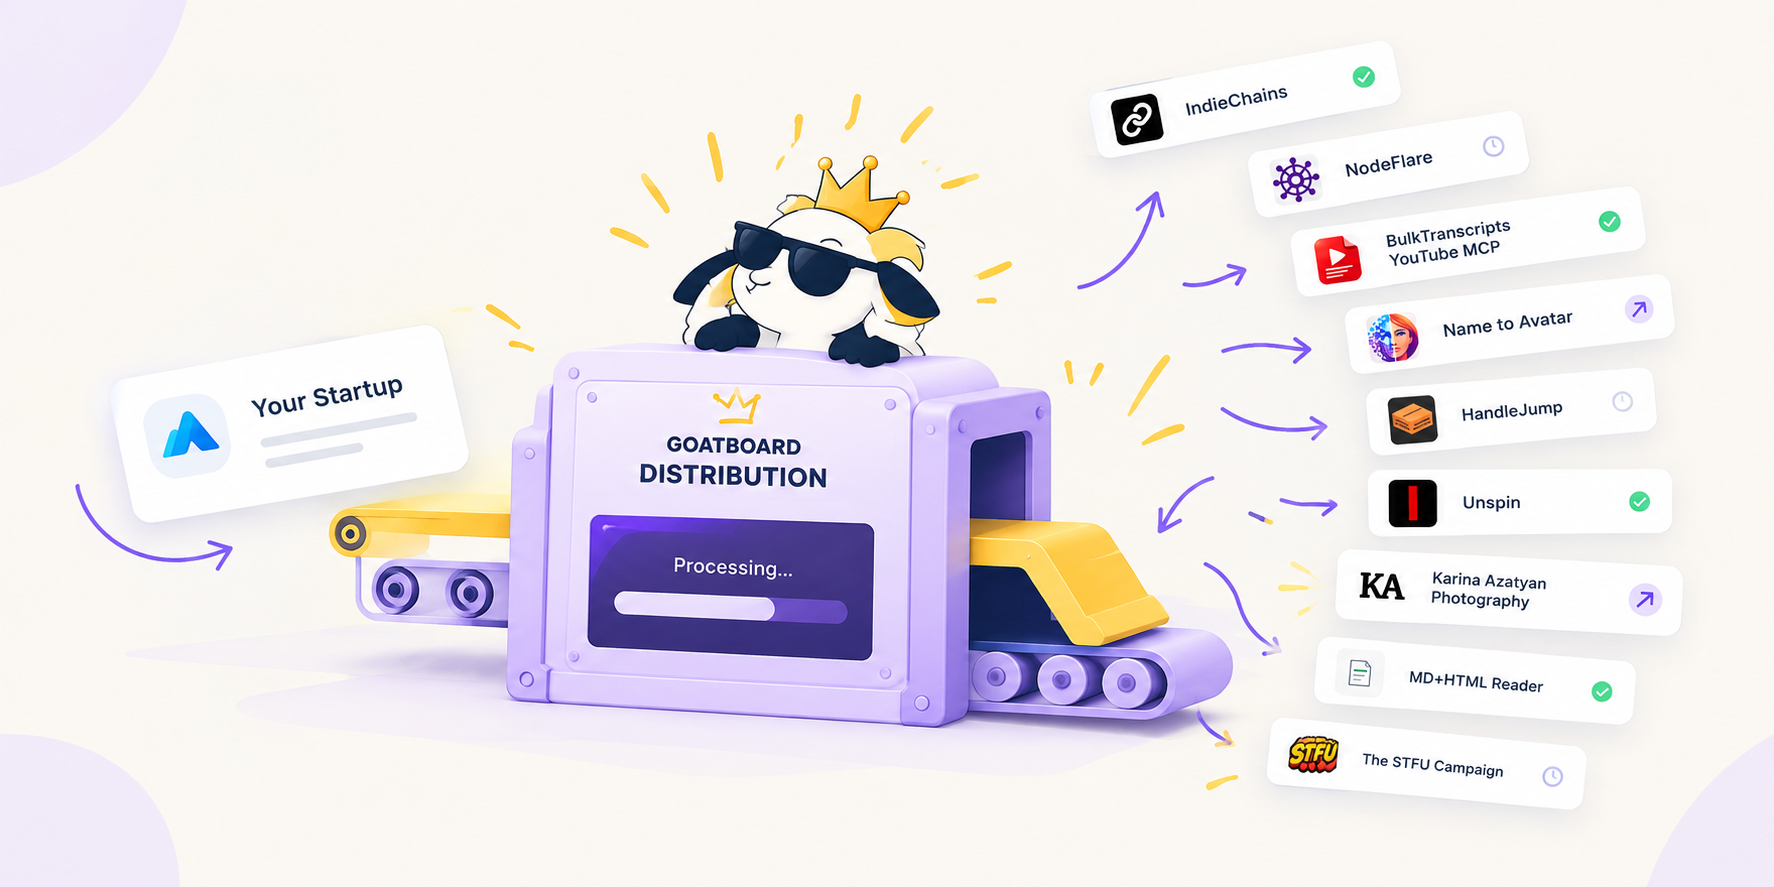
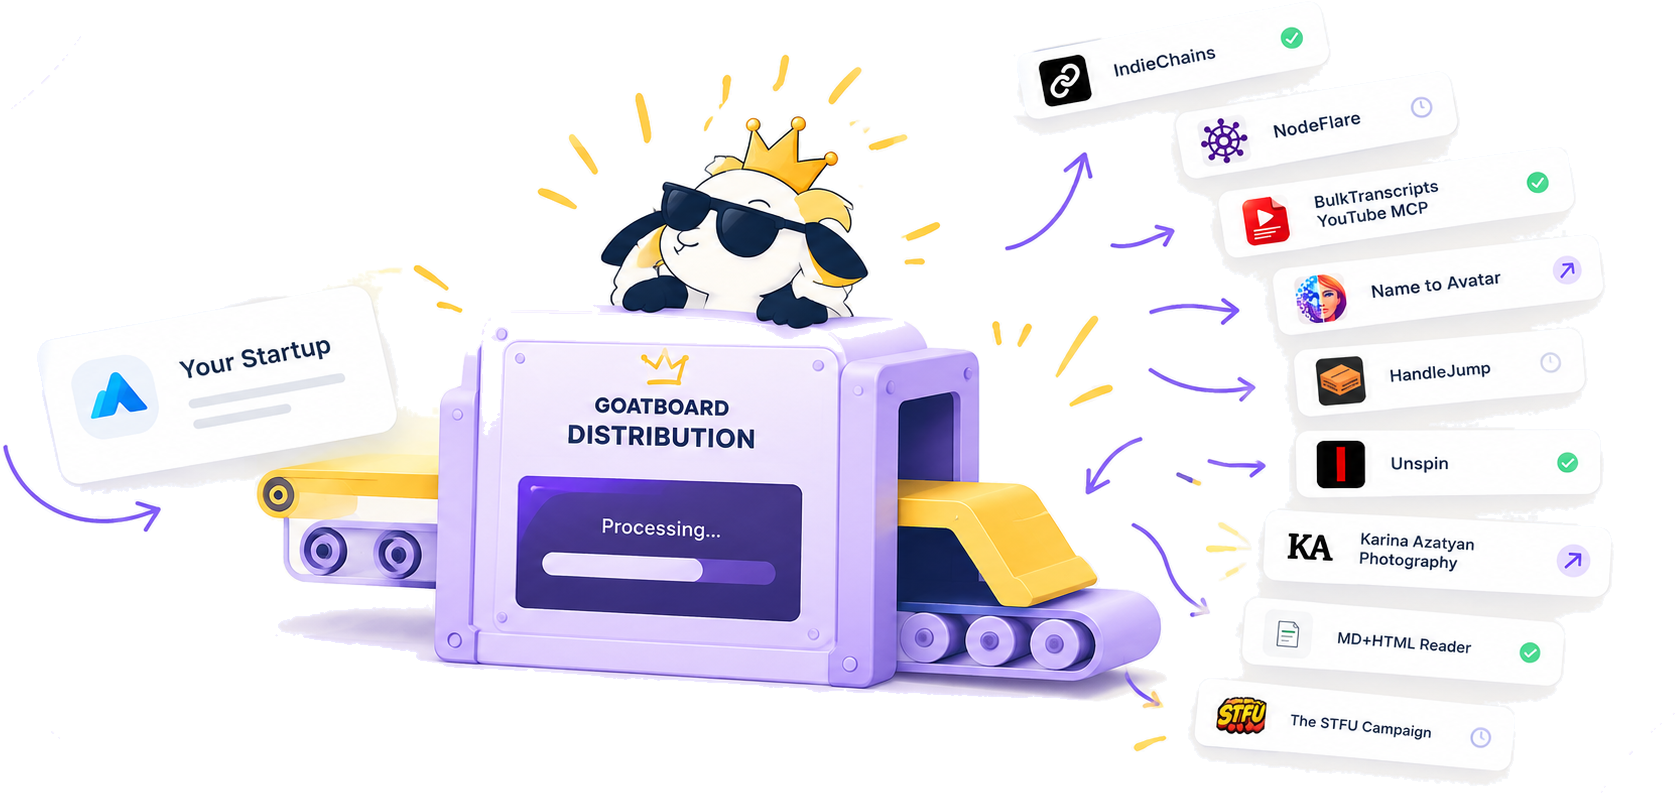
Cut the hero illustration out of its background and enlarge it
The illustration shipped as a cream rectangle, which read as a lighter panel
sitting on the page rather than as artwork on it.

Colour alone could not separate it: the machine body is (238,230,254) and the
background's purple blob is (242,234,250), four points apart. What separates
them is that the blobs touch the border and the machine does not, so the mask
is grown from the image edge with a local tolerance - close to the pixel it
was reached from, not to a fixed key colour. That follows the blobs' gradients
across the frame while the machine's edge, an 18-point step in a pixel or two,
stops it.

A local step alone still walked up each card's soft shadow from cream into its
white body and ate every card, so the run is also capped against the two real
background hues; white is 13 from cream and 21 from the blob, so it never
joins. Edges are feathered and un-matted - F = (C - (1-a)B) / a - since
without that every edge keeps a pale halo that shows against a darker page.

The image is then trimmed to its content and given the larger share of the
hero row. Two constraints shaped how far that could go: bleeding into the page
gutter scrolled the page sideways everywhere between 1024px and 1280px, where
the container is already as wide as the viewport allows, so the bleed is
restricted to 2xl; and the narrower text column pushed the headline onto a
third line, so the headline is sized to break in two inside what's left.
[…]

diff --git a/src/app/get-listed/page.tsx b/src/app/get-listed/page.tsx
@@ -60,11 +60,11 @@ export default function GetListedPage() {
       <AbstractBackdrop />
 
       {/* ------------------------------------------------------------- Hero */}
-      <section className="mx-auto grid max-w-6xl grid-cols-1 items-center gap-8 px-4 py-10 sm:px-6 sm:py-14 lg:grid-cols-[minmax(0,1.05fr)_minmax(0,1fr)] lg:gap-10">
+      <section className="mx-auto grid max-w-6xl grid-cols-1 items-center gap-8 px-4 py-10 sm:px-6 sm:py-14 lg:grid-cols-[minmax(0,0.85fr)_minmax(0,1.25fr)] lg:gap-8">
         <div className="flex flex-col items-start gap-5">
           <SectionTag>Get listed</SectionTag>
 
-          <h1 className="font-handwritten text-4xl uppercase leading-[1.02] tracking-tight sm:text-5xl lg:text-6xl">
+          <h1 className="font-handwritten text-4xl uppercase leading-[1.02] tracking-tight sm:text-5xl lg:text-[2.9rem] xl:text-5xl">
             Get your startup out there. <span aria-hidden>🐐</span>
           </h1>
 
@@ -104,15 +104,21 @@ export default function GetListedPage() {
         </div>
 
         {/* The illustration carries the whole "we submit it everywhere" idea,
-            so nothing is rebuilt around it in markup. */}
-        <div className="relative">
+            so nothing is rebuilt around it in markup. Cut out rather than
+            boxed, so it reads as sitting on the page instead of on a lighter
+            rectangle of its own. Its size comes from the grid rather than a
+            negative margin: bleeding into the gutter scrolled the page
+            sideways everywhere between 1024px and 1280px, where the container
+            is already as wide as the viewport allows. Only 2xl has gutter to
+            spare. */}
+        <div className="relative 2xl:-mr-[6%]">
           {/* eslint-disable-next-line @next/next/no-img-element */}
           <img
             src="/herogetlisted.png"
             alt="A GOATBOARD distribution machine feeding a startup out to directories, launch sites and founder communities"
-            width={1775}
-            height={888}
-            className="h-auto w-full"
+            width={1676}
+            height={794}
+            className="h-auto w-full 2xl:w-[112%] 2xl:max-w-none"
           />
         </div>
       </section>
